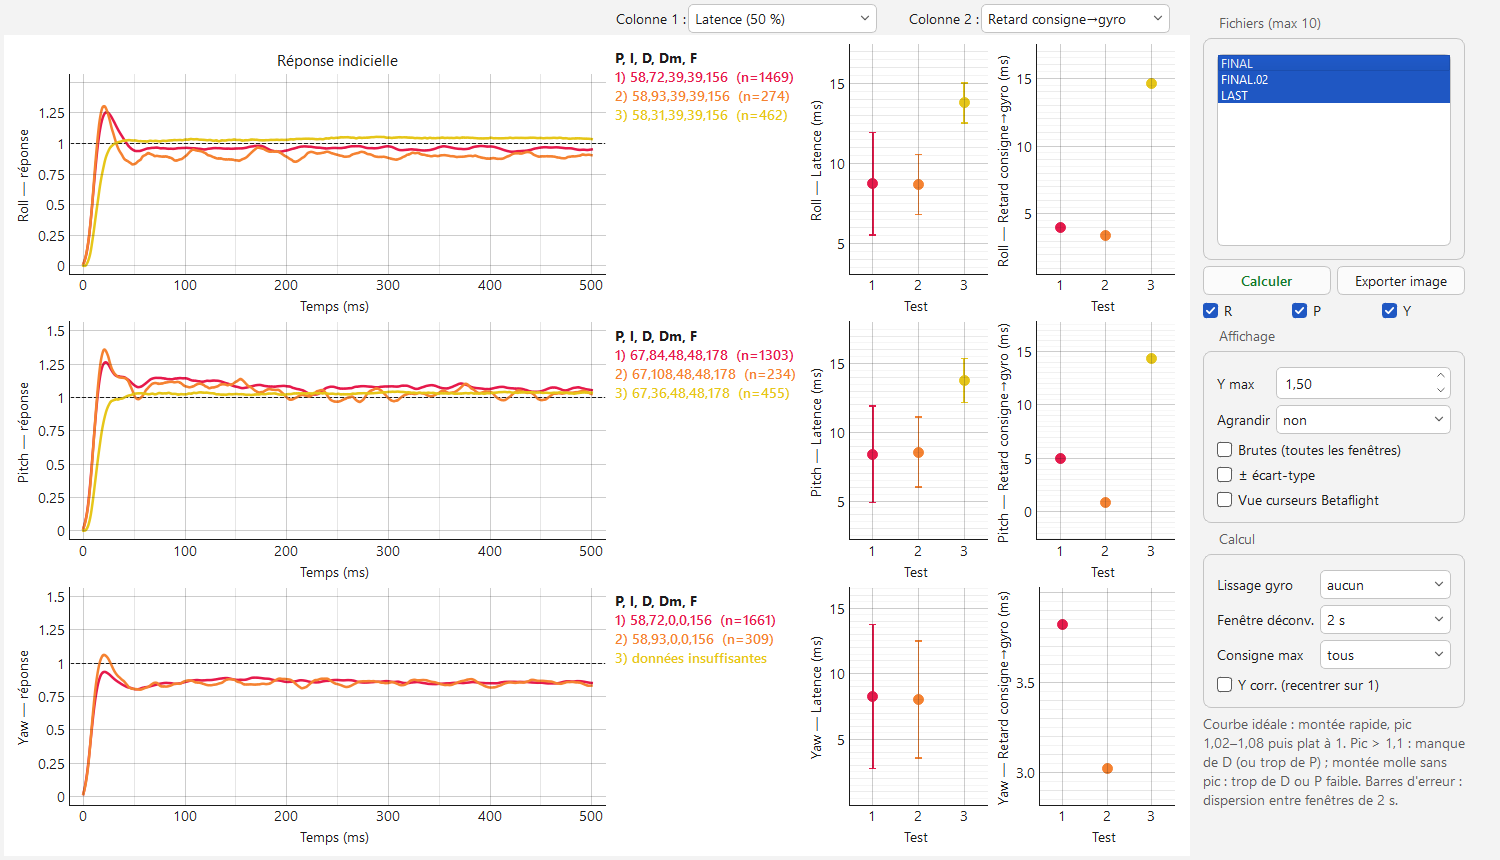
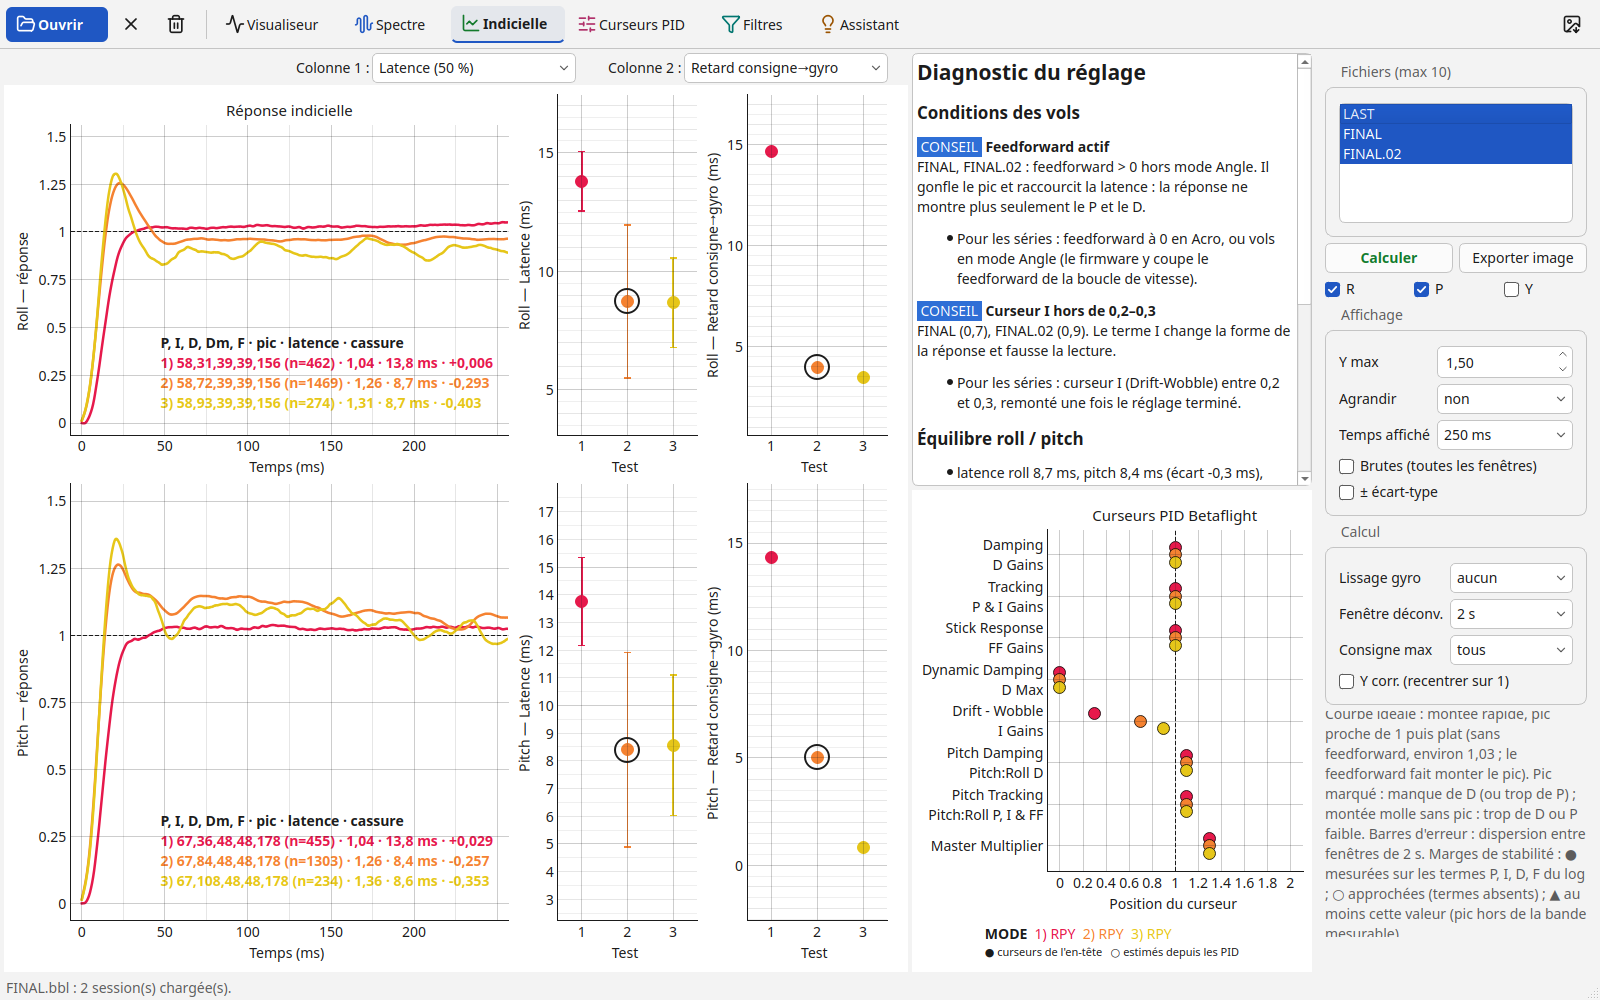
Refaire les captures du README et séparer les noms des curseurs Betaflight
Captures Réponse indicielle et Assistant prises dans la fenêtre principale
(boutons-onglets, diagnostic du réglage, trois vols de JeNo 5). Sous le
diagnostic, le graphique des curseurs reçoit assez de hauteur pour que leurs
noms sur deux lignes ne se chevauchent plus.

diff --git a/src/opentunebox/gui/tools/step_window.py b/src/opentunebox/gui/tools/step_window.py
@@ -17,6 +17,7 @@ import html
 import numpy as np
 import pyqtgraph as pg
 from PySide6.QtCore import Qt, QTimer
+from PySide6.QtGui import QFontMetrics
 from PySide6.QtWidgets import (
     QCheckBox,
     QComboBox,
@@ -280,7 +281,11 @@ class StepWindow(ToolWindow):
         if self.side.isHidden():
             self.show_beside_canvas(self.side, REPORT_WIDTH)
             h = sum(self.side.sizes()) or self.height()
-            self.side.setSizes([int(h * SIDE_REPORT_SHARE), h - int(h * SIDE_REPORT_SHARE)])
+            # 8 curseurs sur deux lignes (nom, ce qu'il règle) : assez de hauteur pour que les noms ne se
+            # chevauchent pas, plus le titre, l'axe et la légende (≈ 7 lignes) ; le rapport défile
+            need = int((8 * 2 * 1.15 + 7) * QFontMetrics(self.font()).lineSpacing())
+            sliders = min(max(h - int(h * SIDE_REPORT_SHARE), need), int(h * 0.75))
+            self.side.setSizes([h - sliders, sliders])
         sc = self.slider_canvas
         sc.clear()
         sc.setBackground(theme.current().bg)

diff --git a/CHANGELOG.md b/CHANGELOG.md
@@ -52,6 +52,10 @@ Format inspiré de [Keep a Changelog](https://keepachangelog.com/fr/1.1.0/) ; nu
   celui des moteurs ; les quatre zones restent synchronisées pendant le glissement.
 - Visualiseur : info-bulle sur les bords de la période d'analyse (début ou fin, avec le temps).
 
+### Corrigé
+- Réponse indicielle : les noms des curseurs Betaflight (sur deux lignes) ne se chevauchent plus sous le
+  diagnostic ; le graphique reçoit la hauteur nécessaire, le rapport défile.
+
 ### Supprimé
 - Fenêtre Statistiques de vol (peu utile ; les mesures restent utilisées par l'assistant).
 
